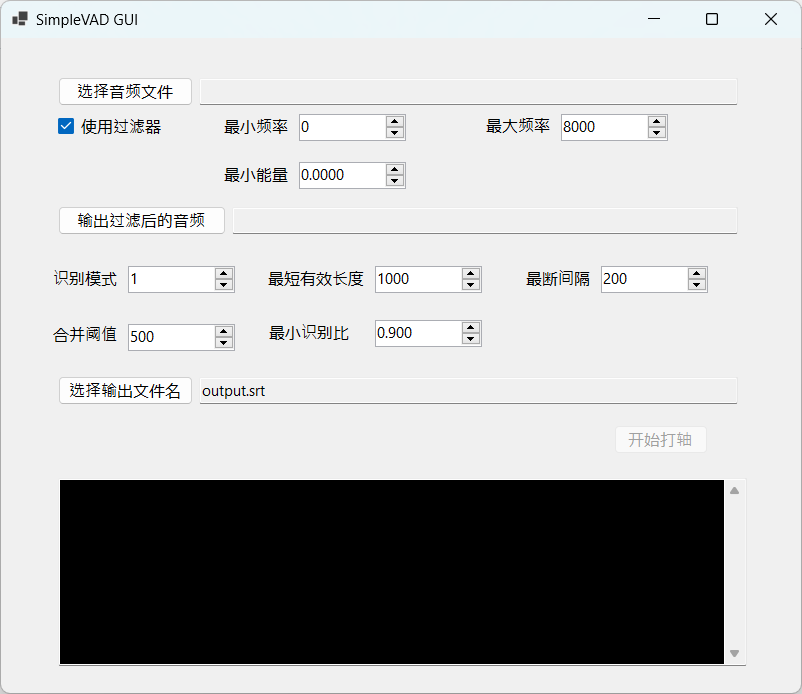
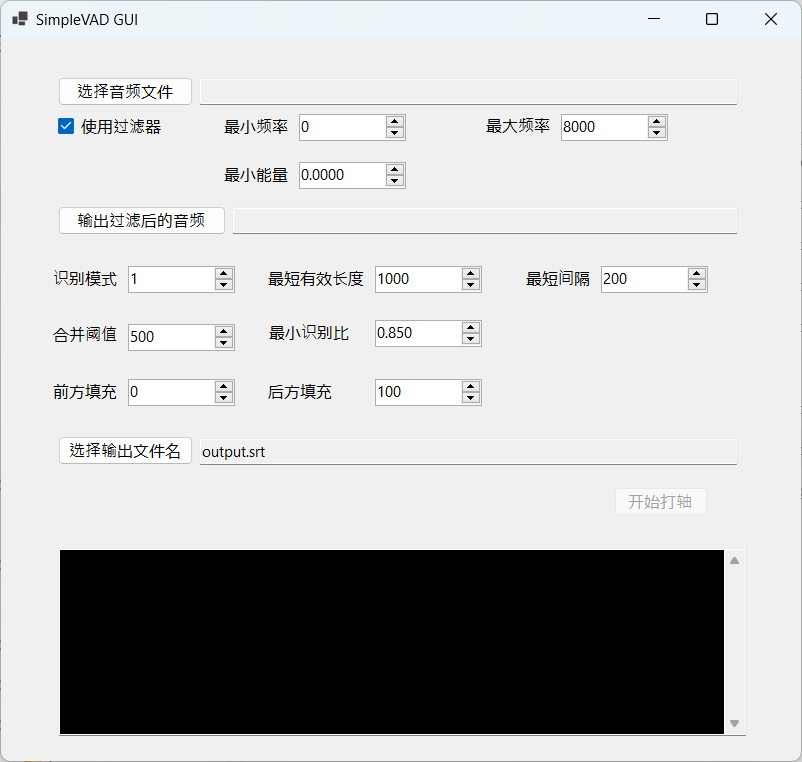
update readme

diff --git a/simple-vad/simple-vad.cpp b/simple-vad/simple-vad.cpp
@@ -126,7 +126,7 @@ void showHelpPage(bool headerOnly)
     cout << "--min-valid-duration INT  : merge or extend the voice segments shorter than this number, default 1000(ms)\n";
     cout << "--min-gap-duration INT    : merge the gaps between voice segments shorter than this number, default 200(ms)\n\n";
     cout << "--min-clear-ratio FLOAT   : range 0-1, remove all segments which doesn't have enough portion of frames\n";
-    cout << "                            with a top frequency bin energy to total energy above this number, default 0.85";
+    cout << "                            with a top frequency bin energy to total energy above this number, default 0.85\n";
     cout << "--start-margin INT        : add a margin before each segment, default 0(ms)\n";
     cout << "--end-margin INT          : add a margin after each segment, default 100(ms)\n";
     cout << "-h                        : show this help page";

diff --git a/README.md b/README.md
@@ -9,35 +9,34 @@
 ### 命令行工具使用说明
 
 ```c++
-void showHelpPage()
-{
-    cout << "Simple Voice Activity Detector by @jsc723 - version 1.2 - 2023\n\n";
-    cout << "Usage: ./simple-vad.exe [options] <input_file>" << endl;
-    cout << "-o FILENAME               : specify the name of the output subtitle file, default output.srt\n\n";
-    
-    cout << "--no-filtering            : do not perform filtering, default disabled\n";
-    cout << "--min-freq  INT           : filter out all frequency below this number, default 0\n";
-    cout << "--max-freq  INT           : filter out all frequency above this number, default 8000\n";
-    cout << "--energy-threshold FLOAT  : filter out all sound frame whose energy is below this number, default 0.001\n";
-    cout << "--out-filtered FILENAME   : output the audio after filtering, before it is passed to vad, no output by default\n\n";
+Usage: ./simple-vad.exe [options] <input_file>
+-o FILENAME               : specify the name of the output subtitle file, default output.srt
 
-    cout << "--vad-mode INT            : set the mode for the fvad library, larger => less chance to be classified as voice,\n";
-    cout << "                            range from 0-3, default 1\n\n";
-    cout << "--merge-threshold INT     : merge small and close voice segments, larger => merge more, default 500\n";
-    cout << "--min-valid-duration INT  : merge or extend the voice segments shorter than this number, default 1000(ms)\n";
-    cout << "--min-gap-duration INT    : merge the gaps between voice segments shorter than this number, default 200(ms)\n\n";
-    cout << "--min-clear-ratio FLOAT   : range 0-1, remove all segments which doesn't have enough portion of frames\n";
-    cout << "                            with a top frequency bin energy to total energy above this number, default 0.85";
-    cout << "-h                        : show this help page";
-    cout << endl;
-}
+--no-filtering            : do not perform filtering, default disabled
+--min-freq  INT           : filter out all frequency below this number, default 0
+--max-freq  INT           : filter out all frequency above this number, default 8000
+--energy-threshold FLOAT  : filter out all sound frame whose energy is below this number, default 0.001
+--out-filtered FILENAME   : output the audio after filtering, before it is passed to vad, no output by default
+
+--vad-mode INT            : set the mode for the fvad library, larger => less chance to be classified as voice,
+                            range from 0-3, default 1
+
+--merge-threshold INT     : merge small and close voice segments, larger => merge more, default 500
+--min-valid-duration INT  : merge or extend the voice segments shorter than this number, default 1000(ms)
+--min-gap-duration INT    : merge the gaps between voice segments shorter than this number, default 200(ms)
+
+--min-clear-ratio FLOAT   : range 0-1, remove all segments which doesn't have enough portion of frames
+                            with a top frequency bin energy to total energy above this number, default 0.85
+--start-margin INT        : add a margin before each segment, default 0(ms)
+--end-margin INT          : add a margin after each segment, default 100(ms)
+-h                        : show this help page
 
 ```
 
 例：
 
 ```
-./simple-vad.exe -o test.srt --energe-threshold 0.1 --min-gap-duration 300 input.wav
+./simple-vad.exe -o test.srt --energe-threshold 0.1 --min-gap-duration 300 --start-margin 100 input.wav
 ```
 
 ### 用户界面使用说明
